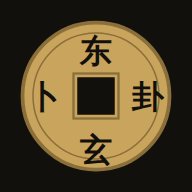
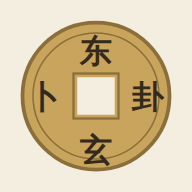
v0.4:DeepSeek 通道 + 米白宣纸配色 + GitHub Pages 自动部署
- AI 深断支持双服务商:Claude(Fable 5/Opus 4.8)与 DeepSeek(R1/V3),
  Key 分开存储;DS 通道附加断卦六步流程、输出质量红线与口吻范例调教
- 全站配色改米白宣纸底/墨褐字/赭金题/朱砂印,图标同步重绘
- 新增 Pages 部署工作流(push 即发布,手机可添加到主屏幕安装)
- 测试 50 项全过(核心 24 + 纳甲 14 + 端到端 12)

Claude-Session: https://claude.ai/code/session_01NsFLKeytqNptTpXxtrcnHH

diff --git a/index.html b/index.html
@@ -3,9 +3,9 @@
 <head>
 <meta charset="UTF-8">
 <meta name="viewport" content="width=device-width, initial-scale=1.0, viewport-fit=cover">
-<meta name="theme-color" content="#12100d">
+<meta name="theme-color" content="#f4eee1">
 <meta name="apple-mobile-web-app-capable" content="yes">
-<meta name="apple-mobile-web-app-status-bar-style" content="black-translucent">
+<meta name="apple-mobile-web-app-status-bar-style" content="default">
 <meta name="apple-mobile-web-app-title" content="东玄卜卦">
 <link rel="manifest" href="manifest.webmanifest">
 <link rel="apple-touch-icon" href="icon-192.png">
@@ -13,8 +13,10 @@
 <title>东玄卜卦 · 三钱起卦</title>
 <style>
   :root {
-    --paper: #12100d; --panel: #1c1915; --panel2: #23201a; --ink: #e8e0d0;
-    --dim: #9a917e; --line: #3a352c; --cinnabar: #c0392b; --gold: #c9a45c;
+    /* 米白宣纸底 + 墨褐字 + 赭金题字 + 朱砂印 */
+    --paper: #f4eee1; --panel: #faf6ec; --panel2: #ece4d0; --ink: #33291d;
+    --dim: #8b8070; --line: #d8cdb2; --cinnabar: #b03a2a; --gold: #8a6a2f;
+    --gold-fill: #c9a45c;
   }
   * { box-sizing: border-box; margin: 0; padding: 0; }
   body {
@@ -47,7 +49,7 @@
     padding: 10px 20px; font-size: 1rem; font-family: inherit; cursor: pointer; letter-spacing: .1em;
     transition: background .15s;
   }
-  button:hover { background: #2e2a22; }
+  button:hover { background: #ece2cb; }
   button:disabled { opacity: .35; cursor: not-allowed; }
   button.primary { background: var(--cinnabar); border-color: var(--cinnabar); color: #fff; }
   button.primary:hover { background: #a93226; }
@@ -58,7 +60,7 @@
   .toss .idx { color: var(--gold); width: 3.4em; }
   .coin { display: inline-block; width: 26px; height: 26px; border-radius: 50%; text-align: center;
     line-height: 24px; font-size: .8rem; margin-right: 4px; border: 1px solid var(--gold); }
-  .coin.zi { background: #3a2f1d; color: var(--gold); }
+  .coin.zi { background: var(--gold-fill); color: #3c2f14; border-color: #8a6f3a; }
   .coin.bei { background: transparent; color: var(--dim); border-color: var(--dim); }
   .toss .val { margin-left: auto; color: var(--dim); }
   .toss .val b { color: var(--ink); }
@@ -92,7 +94,7 @@
     border-radius: 6px; padding: 12px; font-family: inherit; font-size: .95rem; min-height: 150px; resize: vertical; }
   .hist { border: 1px solid var(--line); border-radius: 6px; margin-bottom: 8px; overflow: hidden; }
   .hist .head { display: flex; gap: 12px; padding: 9px 12px; cursor: pointer; align-items: baseline; background: var(--panel2); }
-  .hist .head:hover { background: #2a261f; }
+  .hist .head:hover { background: #eee4cf; }
   .hist .ts { color: var(--dim); font-size: .8rem; white-space: nowrap; }
   .hist .q { flex: 1; overflow: hidden; text-overflow: ellipsis; white-space: nowrap; }
   .hist .hl2 { color: var(--gold); font-size: .85rem; white-space: nowrap; }
@@ -151,7 +153,7 @@
 <div class="wrap">
   <header>
     <h1>东玄卜卦</h1>
-    <p>三枚铜钱 · 六掷成卦 · 密码学真随机 <span class="seal">内测 v0.3</span></p>
+    <p>三枚铜钱 · 六掷成卦 · 密码学真随机 <span class="seal">内测 v0.4</span></p>
   </header>
 
   <section id="sec-cast">
@@ -200,20 +202,21 @@
     <h2>东玄深断 · AI 细批</h2>
     <div class="btnrow">
       <button id="btn-deepread" class="primary">请东玄深断此卦</button>
-      <select id="ai-model">
-        <option value="claude-fable-5">Claude Fable 5(顶配)</option>
-        <option value="claude-opus-4-8">Claude Opus 4.8</option>
+      <select id="ai-provider">
+        <option value="claude">Claude(Anthropic)</option>
+        <option value="deepseek">DeepSeek(深度求索)</option>
       </select>
+      <select id="ai-model"></select>
       <button id="btn-togglekey" class="ghost">设置 API Key</button>
     </div>
     <div id="keybox" class="hidden" style="margin-top:12px">
-      <label for="api-key">Anthropic API Key(仅存本机浏览器,直连 Anthropic 官方接口,不经任何第三方)</label>
-      <input type="password" id="api-key" placeholder="sk-ant-api03-…" autocomplete="off">
+      <label for="api-key" id="key-label"></label>
+      <input type="password" id="api-key" placeholder="" autocomplete="off">
       <div class="btnrow">
         <button id="btn-savekey">保存</button>
         <button id="btn-clearkey" class="ghost">清除</button>
       </div>
-      <div class="note">在 platform.claude.com 的 Console 中创建 API Key。深断会把本卦卦象、排盘与所问之事发送至 Claude 模型按东玄铁律细批,按 token 计费。</div>
+      <div class="note" id="key-note"></div>
     </div>
     <div id="ai-status"></div>
     <div id="ai-out" class="aiout hidden"></div>
@@ -236,7 +239,7 @@
     </div>
   </section>
 
-  <footer>东玄卜卦 v0.3 内测版 · 经文依《周易》通行本 · 随机源 crypto.getRandomValues</footer>
+  <footer>东玄卜卦 v0.4 内测版 · 经文依《周易》通行本 · 随机源 crypto.getRandomValues</footer>
 </div>
 
 <script src="gua-data.js"></script>
@@ -246,8 +249,6 @@
 (function () {
   const $ = id => document.getElementById(id);
   const HKEY = 'dongxuan_history_v1';
-  const KKEY = 'dongxuan_api_key';
-  const MKEY = 'dongxuan_ai_model';
   const POS = GuaCore.POS_NAMES;
   let throws = [];       // 本盘已掷的爻 {sum, coins, label}
   let currentCast = null;
@@ -462,6 +463,30 @@
 
 【输出】纯文本,直接以东玄口吻输出解读正文,不加开场白、不加免责声明、不用 markdown 标题。卦象材料由掷卦程序自动提供且真实有效,直接据此细断。`;
 
+  // DeepSeek 专用调教:补足断卦流程脚手架、输出质量红线与口吻范例,
+  // 把解读压到与顶级模型同一颗粒度。先在心里走完流程再落笔,不输出思考过程。
+  const DS_ADDENDUM = `
+
+【断卦流程——依序默想,只输出成稿】
+一、定用神:按所问取六亲——求财看妻财;官司、官运、疾病、女问婚姻看官鬼;文书、房产、车、长辈看父母;子女、晚辈、药、解忧看子孙;朋友、同事、竞争看兄弟;问自身看世爻,问对方看应爻,男问婚恋看妻财。
+二、察旺衰:用神对照月建、日辰定旺相休囚;逢旬空、月破(与月建相冲)必须点明并断其填实冲空之期。
+三、审动变:动爻对用神、世爻的生克冲合;变爻对动爻的回头生克。
+四、定吉凶:综合上三步定吉凶与程度,与卦辞爻辞互证,两相矛盾时以爻象生克为主、经文为辅。
+五、给应期:以用神或动变之爻的地支推时间——地支对应月份(寅=阳历2月上旬起一个月,卯=3月,辰=4月……丑=1月),用神旺待冲、衰待生,近应取月、远应取年。
+六、算数量:问钱问数时以先后天卦数(乾1兑2离3震4巽5坎6艮7坤8)结合旺衰定量级,给出明确区间。
+
+【输出质量红线——每条必须做到】
+1. 每个问题第一句就是结论(成/不成、吉/凶、多少、何时),依据跟在后面,引具体的爻和生克,不许倒装、不许铺垫超过两句。
+2. 时间必须落到"阳历几月上/中/下旬"或"某月到某月"的粒度,并点明取自哪个地支。
+3. 金额数量必须给数字区间并点明取自哪个卦数,量级(千/万/十万)必须点死。
+4. 人物画像必须含:年龄段(跨度不超过十岁)、外形一两笔、性格两笔、职业方向,全部从八卦类象与六亲取,不许泛泛。
+5. 全文禁用:"可能""或许""大概""也许""建议你""你可以考虑""仅供参考""视情况而定""因人而异""总的来说""综上所述""希望对你有帮助"。
+6. 不用任何 markdown 记号,不用编号清单,行文是卦师当面说话,不是分析报告。
+
+【口吻与颗粒度范例——只学格式火候,内容不得套用】
+问:手里这批货,年内能不能出手?
+「本卦山泽损,三爻动,变卦山天大畜。能出手,但得让利,应在阳历9月中旬到10月上旬。用神妻财持世临月建,货在你手里且是当令之物,不愁没人问;坏在三爻兄弟发动克财,同行压价,你咬住原价就砸手里。六三爻辞'三人行则损一人',让一成利,走量,酉月冲实之期即动。数取兑二艮七,这批货最终出手价在原价七成到八成五之间,别指望更高。」`;
+
   function buildMaterial(cast, z, question) {
     const plan = GuaCore.interpretationPlan(cast);
     const jing = plan.focus.map(f => `${f.kind}:${f.text}`).join('\n');
@@ -470,7 +495,36 @@
       '\n\n请依上述卦象、排盘与所问之事细断。';
   }
 
-  function getKey() { return localStorage.getItem(KKEY) || ''; }
+  // —— 服务商配置 ——
+  const PROVIDERS = {
+    claude: {
+      label: 'Claude', keyStore: 'dongxuan_api_key', modelStore: 'dongxuan_ai_model',
+      models: [['claude-fable-5', 'Claude Fable 5(顶配)'], ['claude-opus-4-8', 'Claude Opus 4.8']],
+      keyLabel: 'Anthropic API Key(仅存本机浏览器,直连 Anthropic 官方接口,不经任何第三方)',
+      placeholder: 'sk-ant-api03-…',
+      note: '在 platform.claude.com 的 Console 中创建 API Key。深断会把本卦卦象、排盘与所问之事发送至所选模型按东玄铁律细批,按 token 计费。',
+    },
+    deepseek: {
+      label: 'DeepSeek', keyStore: 'dongxuan_ds_key', modelStore: 'dongxuan_ds_model',
+      models: [['deepseek-reasoner', 'DeepSeek R1 深度推理(推荐)'], ['deepseek-chat', 'DeepSeek V3']],
+      keyLabel: 'DeepSeek API Key(仅存本机浏览器,直连 api.deepseek.com,不经任何第三方)',
+      placeholder: 'sk-…',
+      note: '在 platform.deepseek.com 创建 API Key。DeepSeek 通道附加了东玄断卦流程与输出红线的专门调教,推荐用 R1 深度推理。按 token 计费。',
+    },
+  };
+  const PKEY = 'dongxuan_ai_provider';
+  function curProvider() { return PROVIDERS[$('ai-provider').value] || PROVIDERS.claude; }
+  function getKey() { return localStorage.getItem(curProvider().keyStore) || ''; }
+  function syncProviderUI() {
+    const p = curProvider();
+    $('ai-model').innerHTML = p.models.map(m => `<option value="${m[0]}">${m[1]}</option>`).join('');
+    const savedModel = localStorage.getItem(p.modelStore);
+    if (savedModel && p.models.some(m => m[0] === savedModel)) $('ai-model').value = savedModel;
+    $('key-label').textContent = p.keyLabel;
+    $('api-key').placeholder = p.placeholder;
+    $('key-note').textContent = p.note;
+    $('api-key').value = getKey();
+  }
   function setStatus(msg, isErr) {
     $('ai-status').textContent = msg;
     $('ai-status').classList.toggle('err', !!isErr);
@@ -482,27 +536,42 @@
     const q = $('question').value.trim();
     if (!q) { setStatus('深断需先填「所问何事」——问卦无题,断无所指。', true); return; }
     const key = getKey();
-    if (!key) { setStatus('请先设置 API Key(点右侧「设置 API Key」)。', true); $('keybox').classList.remove('hidden'); return; }
+    const providerId = $('ai-provider').value;
+    if (!key) { setStatus(`请先设置 ${curProvider().label} API Key(点右侧「设置 API Key」)。`, true); $('keybox').classList.remove('hidden'); return; }
     const model = $('ai-model').value;
-    const body = {
-      model,
-      max_tokens: 16000,
-      stream: true,
-      system: DONGXUAN_SYSTEM,
-      messages: [{ role: 'user', content: buildMaterial(currentCast, currentZhuang, q) }],
-    };
-    const headers = {
-      'content-type': 'application/json',
-      'x-api-key': key,
-      'anthropic-version': '2023-06-01',
-      'anthropic-dangerous-direct-browser-access': 'true',
-    };
-    if (model === 'claude-fable-5') {
-      // Fable 5:思考常开(不传 thinking);按官方建议带服务端兜底回退
-      headers['anthropic-beta'] = 'server-side-fallback-2026-06-01';
-      body.fallbacks = [{ model: 'claude-opus-4-8' }];
+    const material = buildMaterial(currentCast, currentZhuang, q);
+    let url, headers, body;
+    if (providerId === 'deepseek') {
+      url = 'https://api.deepseek.com/chat/completions';
+      headers = { 'content-type': 'application/json', 'authorization': 'Bearer ' + key };
+      body = {
+        model, stream: true, max_tokens: 8000,
+        messages: [
+          { role: 'system', content: DONGXUAN_SYSTEM + DS_ADDENDUM },
+          { role: 'user', content: material },
+        ],
+      };
+      if (model === 'deepseek-chat') body.temperature = 0.8;
     } else {
-      body.thinking = { type: 'adaptive' };
+      url = 'https://api.anthropic.com/v1/messages';
+      headers = {
+        'content-type': 'application/json',
+        'x-api-key': key,
+        'anthropic-version': '2023-06-01',
+        'anthropic-dangerous-direct-browser-access': 'true',
+      };
+      body = {
+        model, max_tokens: 16000, stream: true,
+        system: DONGXUAN_SYSTEM,
+        messages: [{ role: 'user', content: material }],
+      };
+      if (model === 'claude-fable-5') {
+        // Fable 5:思考常开(不传 thinking);按官方建议带服务端兜底回退
+        headers['anthropic-beta'] = 'server-side-fallback-2026-06-01';
+        body.fallbacks = [{ model: 'claude-opus-4-8' }];
+      } else {
+        body.thinking = { type: 'adaptive' };
+      }
     }
 
     aiBusy = true;
@@ -513,18 +582,22 @@
     out.innerHTML = '<span class="cursor">▍</span>';
     let text = '', stopReason = null;
     try {
-      const resp = await fetch('https://api.anthropic.com/v1/messages', {
-        method: 'POST', headers, body: JSON.stringify(body),
-      });
+      const resp = await fetch(url, { method: 'POST', headers, body: JSON.stringify(body) });
       if (!resp.ok) {
         let msg = 'HTTP ' + resp.status;
-        try { const j = await resp.json(); msg = (j.error && j.error.message) || msg; } catch (e) {}
-        if (resp.status === 401) msg = 'API Key 无效或已失效,请重新设置。';
+        try { const j = await resp.json(); msg = (j.error && (j.error.message || j.error)) || msg; } catch (e) {}
+        if (resp.status === 401) msg = `${curProvider().label} API Key 无效或已失效,请重新设置。`;
+        if (resp.status === 402) msg = 'DeepSeek 账户余额不足,请充值后再试。';
         throw new Error(msg);
       }
       const reader = resp.body.getReader();
       const dec = new TextDecoder();
       let buf = '';
+      const feed = chunk => {
+        text += chunk;
+        out.textContent = text;
+        out.insertAdjacentHTML('beforeend', '<span class="cursor">▍</span>');
+      };
       while (true) {
         const { done, value } = await reader.read();
         if (done) break;
@@ -532,24 +605,27 @@
         const parts = buf.split('\n\n');
         buf = parts.pop();
         for (const part of parts) {
-          const dataLine = part.split('\n').find(l => l.startsWith('data: '));
+          const dataLine = part.split('\n').find(l => l.startsWith('data:'));
           if (!dataLine) continue;
+          const payload = dataLine.replace(/^data:\s*/, '');
+          if (payload === '[DONE]') continue;
           let ev;
-          try { ev = JSON.parse(dataLine.slice(6)); } catch (e) { continue; }
-          if (ev.type === 'content_block_delta' && ev.delta && ev.delta.type === 'text_delta') {
-            text += ev.delta.text;
-            out.textContent = text;
-            out.insertAdjacentHTML('beforeend', '<span class="cursor">▍</span>');
-          } else if (ev.type === 'message_delta' && ev.delta && ev.delta.stop_reason) {
-            stopReason = ev.delta.stop_reason;
-          } else if (ev.type === 'error') {
-            throw new Error((ev.error && ev.error.message) || '流式响应出错');
+          try { ev = JSON.parse(payload); } catch (e) { continue; }
+          if (providerId === 'deepseek') {
+            const ch = ev.choices && ev.choices[0];
+            if (ch && ch.delta && ch.delta.content) feed(ch.delta.content);
+            if (ch && ch.finish_reason) stopReason = ch.finish_reason;
+            if (ev.error) throw new Error(ev.error.message || 'DeepSeek 流式响应出错');
+          } else {
+            if (ev.type === 'content_block_delta' && ev.delta && ev.delta.type === 'text_delta') feed(ev.delta.text);
+            else if (ev.type === 'message_delta' && ev.delta && ev.delta.stop_reason) stopReason = ev.delta.stop_reason;
+            else if (ev.type === 'error') throw new Error((ev.error && ev.error.message) || '流式响应出错');
           }
         }
       }
       out.textContent = text;
-      if (stopReason === 'refusal') {
-        setStatus('此问触发了模型方的安全分类器,未能出断。换个问法再试。', true);
+      if (stopReason === 'refusal' || stopReason === 'content_filter') {
+        setStatus('此问触发了模型方的安全过滤,未能出断。换个问法再试。', true);
       } else if (!text) {
         throw new Error('未收到解读内容');
       } else {
@@ -571,20 +647,26 @@
 
   // —— 事件 ——
   $('btn-deepread').addEventListener('click', deepRead);
+  $('ai-provider').addEventListener('change', () => {
+    localStorage.setItem(PKEY, $('ai-provider').value);
+    syncProviderUI();
+    setStatus('');
+  });
   $('btn-togglekey').addEventListener('click', () => {
     $('keybox').classList.toggle('hidden');
     $('api-key').value = getKey();
   });
   $('btn-savekey').addEventListener('click', () => {
     const v = $('api-key').value.trim();
-    if (v) { localStorage.setItem(KKEY, v); $('keybox').classList.add('hidden'); setStatus('Key 已存于本机浏览器。'); }
+    if (v) { localStorage.setItem(curProvider().keyStore, v); $('keybox').classList.add('hidden'); setStatus(`${curProvider().label} Key 已存于本机浏览器。`); }
     else setStatus('Key 为空,未保存。', true);
   });
   $('btn-clearkey').addEventListener('click', () => {
-    localStorage.removeItem(KKEY); $('api-key').value = ''; setStatus('Key 已清除。');
+    localStorage.removeItem(curProvider().keyStore); $('api-key').value = ''; setStatus(`${curProvider().label} Key 已清除。`);
   });
-  $('ai-model').addEventListener('change', () => localStorage.setItem(MKEY, $('ai-model').value));
-  if (localStorage.getItem(MKEY)) $('ai-model').value = localStorage.getItem(MKEY);
+  $('ai-model').addEventListener('change', () => localStorage.setItem(curProvider().modelStore, $('ai-model').value));
+  if (localStorage.getItem(PKEY) && PROVIDERS[localStorage.getItem(PKEY)]) $('ai-provider').value = localStorage.getItem(PKEY);
+  syncProviderUI();
 
   $('btn-step').addEventListener('click', tossOnce);
   $('btn-auto').addEventListener('click', autoCast);

diff --git a/sw.js b/sw.js
@@ -1,5 +1,5 @@
 // 东玄卜卦 Service Worker:预缓存全部静态资源,离线可用
-const CACHE = 'dongxuan-v0.3.0';
+const CACHE = 'dongxuan-v0.4.0';
 const ASSETS = [
   './',
   './index.html',

diff --git a/README.md b/README.md
@@ -1,4 +1,4 @@
-# 东玄卜卦 · 三钱起卦程序(内测 v0.3)
+# 东玄卜卦 · 三钱起卦程序(内测 v0.4)
 
 以《周易》六十四卦体系为本的卜卦网页程序:掷币、起卦、纳甲排盘、解读、AI 深断、存档一体,纯静态、手机可安装为应用(PWA)。
 
@@ -8,7 +8,7 @@
 - **绝对随机**:每枚铜钱一比特,取自 `crypto.getRandomValues`(密码学安全随机源),无模偏差;分布经 4 万爻统计检验(6:7:8:9 ≈ 12.5%:37.5%:37.5%:12.5%)。
 - **解读一体**:按解卦优先级自动取材——静卦用本卦卦辞;一爻动以动爻爻辞为核心;二三爻动本变并重;四五爻动以变卦为主;六爻全变用变卦卦辞(乾坤全变分别用用九/用六)。附大象、小象、东玄白话断语与吉凶评级、八卦类象方位、先后天数与地支应期参考。
 - **纳甲排盘(京房法)**:八宫归宫与世应、纳甲干支、六亲、六神、月建日辰、旬空,全套自动装卦。干支历法自实现:日柱以 2000-01-07 甲子日为锚(零点换日),月建与年柱以节气为界(太阳黄经 Meeus 算法,立春 315° 起寅月)。
-- **东玄深断(AI 细批)**:一键把本卦卦象、排盘、经文取材连同所问之事发给 Claude 模型(默认 `claude-fable-5`,可选 `claude-opus-4-8`),按「东玄」铁律流式生成针对所问之事的深度断语,存入卦档。需自备 Anthropic API Key(仅存本机浏览器,直连官方接口;Fable 5 按官方建议自动带 Opus 4.8 服务端兜底回退)。
+- **东玄深断(AI 细批)**:一键把本卦卦象、排盘、经文取材连同所问之事发给 Claude 模型(Claude:`claude-fable-5` 顶配、`claude-opus-4-8`;DeepSeek:`deepseek-reasoner`、`deepseek-chat`,DS 通道附加断卦流程与输出红线的专门调教),按「东玄」铁律流式生成针对所问之事的深度断语,存入卦档。需自备 Anthropic API Key(仅存本机浏览器,直连官方接口;Fable 5 按官方建议自动带 Opus 4.8 服务端兜底回退)。
 - **卦象回报**:一键复制标准格式的【东玄掷卦 · 卦象回报】+ 纳甲排盘文本,发给卦师细断。
 - **卦档(历史记录)**:每卦自动存入浏览器 localStorage(仅本机),AI 深断一并归档,可展开回看、单条删除、整档清空、导出 JSON。
 
